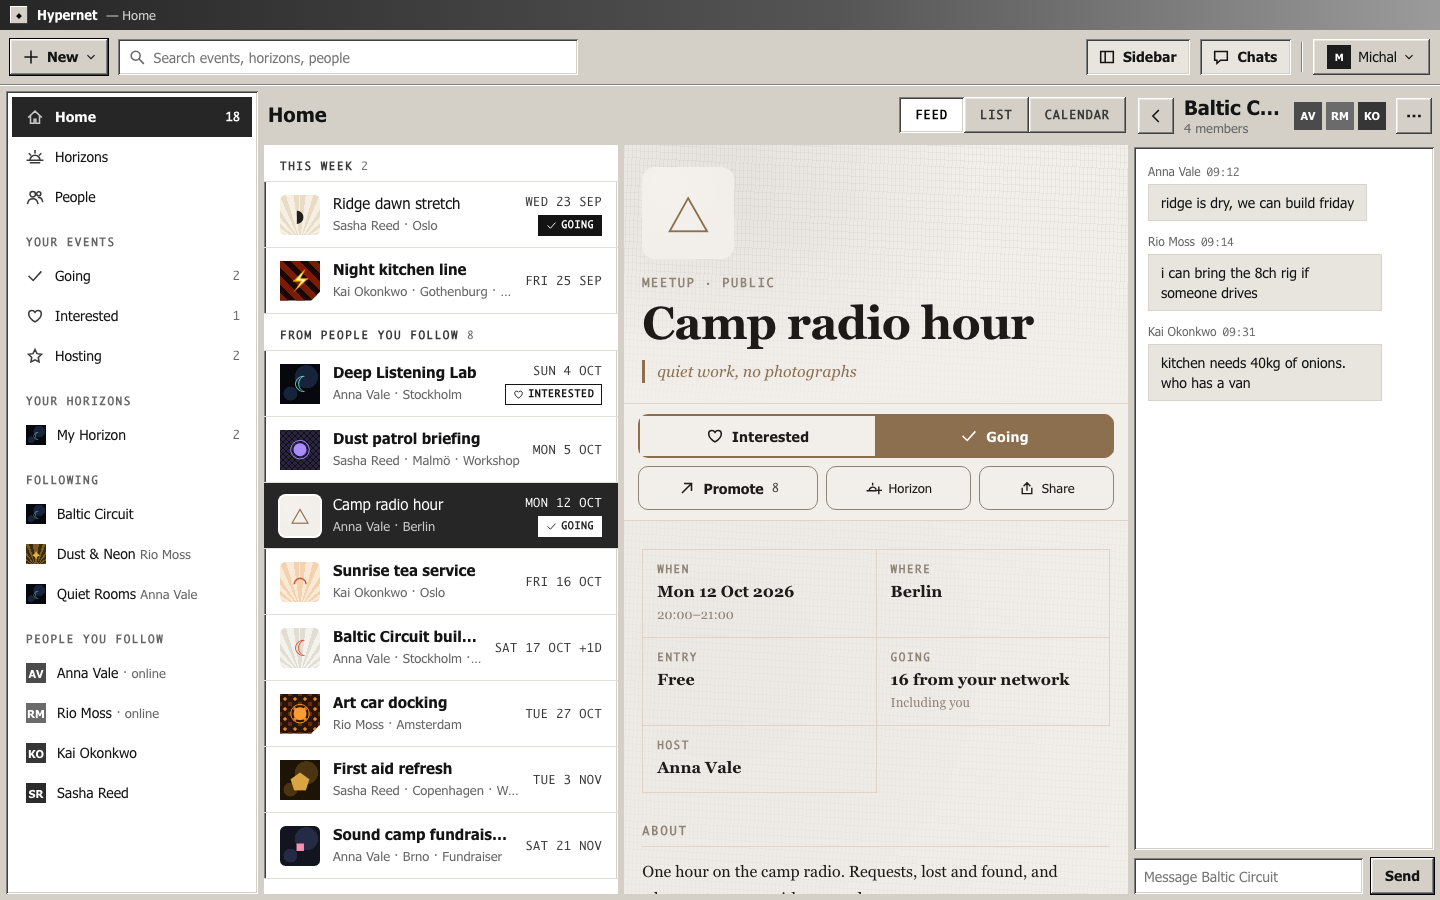
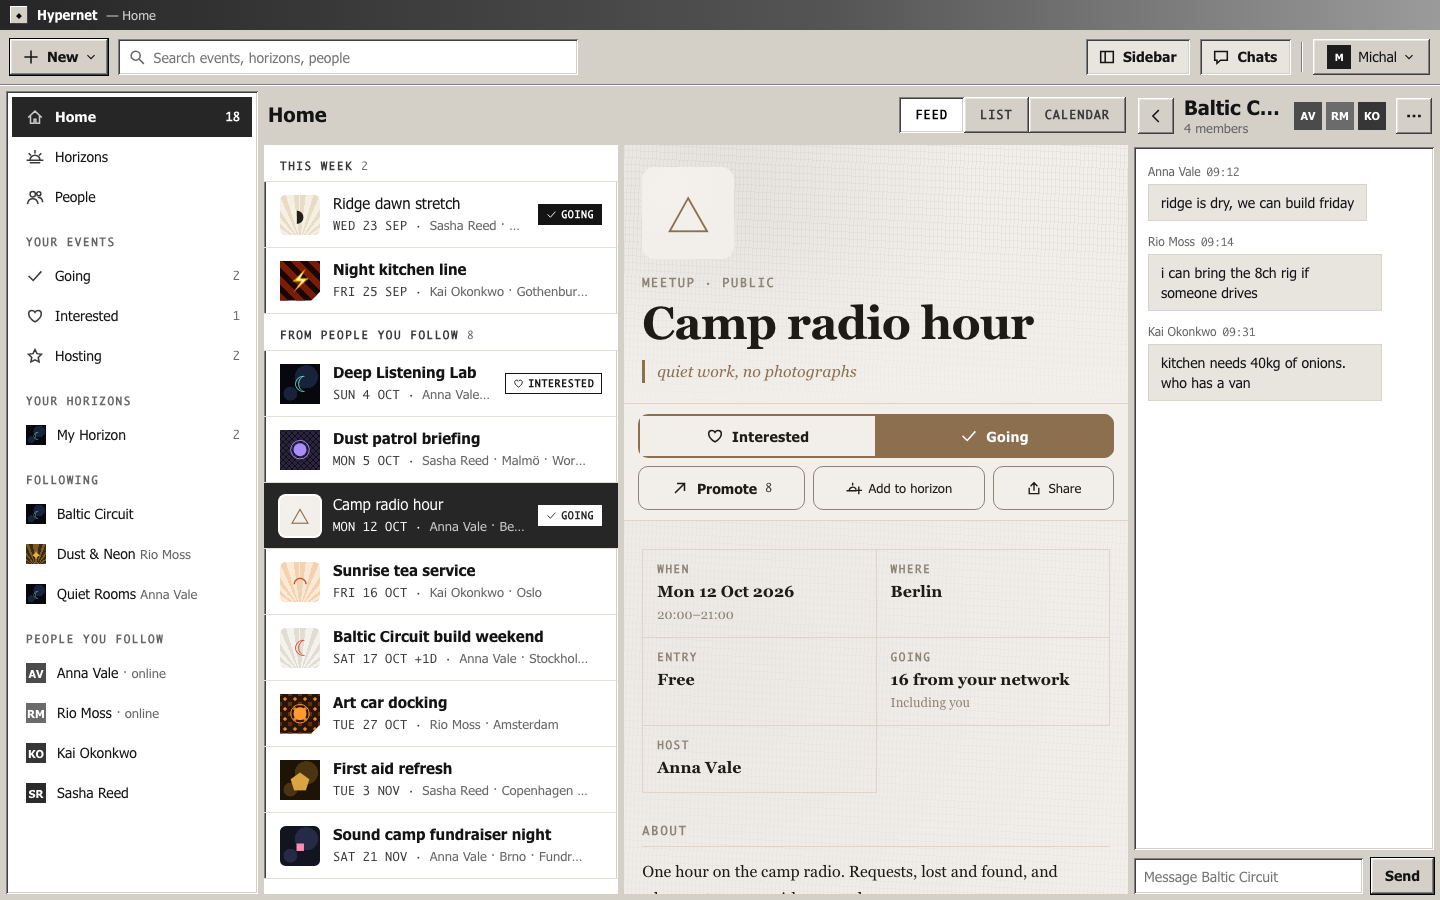
docs(usability): Phase C screenshots and plan status

diff --git a/tests/regression.js b/tests/regression.js
@@ -1,4 +1,4 @@
-/* Hypernet feed — end-to-end regression (usability round 1, Phase A + B).
+/* Hypernet feed — end-to-end regression (usability round 1, Phases A–C).
    Serve:  python3 -m http.server 8936 --bind 127.0.0.1 --directory <repo>
    Run:    npx -y -p playwright node tests/regression.js
    Browser: Playwright's own Chromium when it is installed; otherwise PW_CHROME=<chromium binary>; otherwise

diff --git a/docs/usability/FIX-PLAN.md b/docs/usability/FIX-PLAN.md
@@ -6,7 +6,9 @@ The right-click menu (`e436828`) landed after testing and was not covered.
 
 Order = priority. Commit per theme.
 
-**Round 1 status (2026-09-24):** Phase A (A1–A7) and Phase B (B1–B8) done, one commit each; Phase C untouched.
+**Round 1 status (2026-09-24):** Phases A, B and C done (C in seven groups, C1–C7, plus the favicon); one commit each.
+C was checked the same way, plus a 44px touch-target scan of 16 phone screens; the regression is green with no console
+errors or failed requests.
 Checked in headless Chromium at 375×812 (touch), 768×1024 and 1440×900 against each source finding's repro, plus
 `tests/regression.js` (event → Going; horizon → add events → customize → reload; new group chat; right-click → Add to
 horizon; long-press sheet; back/forward/reload; console errors; horizontal overflow on 12 screens). The right-click /
